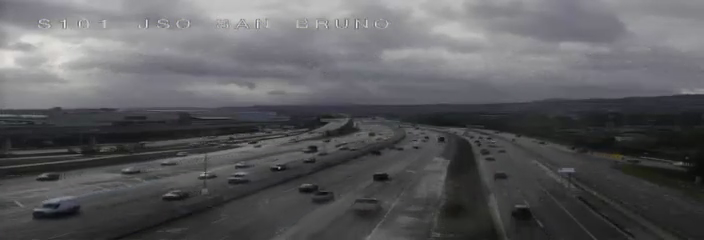
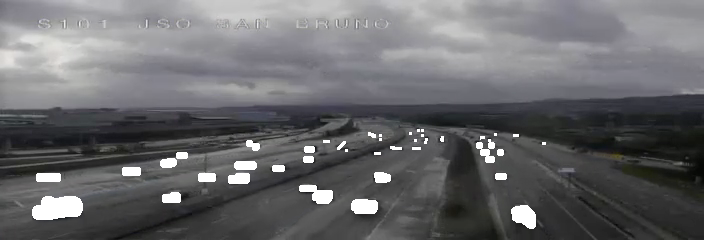
a

diff --git a/car-tracking/mog2-morphological-optimization/main.py b/car-tracking/mog2-morphological-optimization/main.py
@@ -1,0 +1,61 @@
+import glob
+import cv2
+import numpy as np
+# get all videos in `data/`, then extract uuid (part before.mp4). Then get associated image: data/{uuid}_last_frame.png. Then associated mask in data/masks/{uuid}_mask.png. Then filter for only those where all three files exist AND the mask contains some amount of rgb-white pixels (mask is actually labeled)
+
+video_files = glob.glob("data/*.mp4")
+image_files = glob.glob("data/*_last_frame.png")
+mask_files = glob.glob("data/masks/*_mask.png")
+video_ids = set([vf.split("/")[-1].split(".mp4")[0] for vf in video_files])
+image_ids = set([imf.split("/")[-1].split("_last_frame.png")[0] for imf in image_files])
+mask_ids = set([mf.split("/")[-1].split("_mask.png")[0] for mf in mask_files])
+valid_ids = video_ids & image_ids & mask_ids
+final_ids = []
+for vid in valid_ids:
+    mask_path = f"data/masks/{vid}_mask.png"
+    mask = cv2.imread(mask_path)
+
+    # check for >30 white pixels
+    if np.sum(np.all(mask == [255, 255, 255], axis=-1)) > 30:
+        final_ids.append(vid)
+
+print("Valid IDs with non-empty masks:", final_ids)
+
+def run_mog2(id, erode_amount, dilate_amount, iterations, gaussian_blur_kernel_size, erode_kernel_size, dilate_kernel_size):
+    video_path = f"data/{id}.mp4"
+    cap = cv2.VideoCapture(video_path)
+
+    fgbg = cv2.createBackgroundSubtractorMOG2(
+        history=500,     
+        varThreshold=10,
+        detectShadows=False
+    )
+
+    erode_kernel = cv2.getStructuringElement(cv2.MORPH_ELLIPSE, (erode_kernel_size, erode_kernel_size))
+    dilate_kernel = cv2.getStructuringElement(cv2.MORPH_ELLIPSE, (dilate_kernel_size, dilate_kernel_size))
+
+    while True:
+        ret, frame = cap.read()
+        if not ret:
+            break
+
+        gray = cv2.cvtColor(frame, cv2.COLOR_BGR2GRAY)
+        img = gray
+        img = cv2.GaussianBlur(img, (gaussian_blur_kernel_size, gaussian_blur_kernel_size), 0)
+        img = cv2.convertScaleAbs(img, alpha=1.5, beta=0)
+        mask = fgbg.apply(img)
+
+        # Apply morphological operations
+        for _ in range(iterations):
+            mask = cv2.erode(mask, erode_kernel, iterations=erode_amount)
+            mask = cv2.dilate(mask, dilate_kernel, iterations=dilate_amount)
+
+    cap.release()
+
+    final_mask = mask
+    true_mask = cv2.imread(f"data/masks/{id}_mask.png", cv2.IMREAD_GRAYSCALE)
+    true_mask = true_mask == 255
+    final_mask = final_mask == 255
+
+    mse = np.mean((final_mask.astype(float) - true_mask.astype(float)) ** 2)
+    return mse
